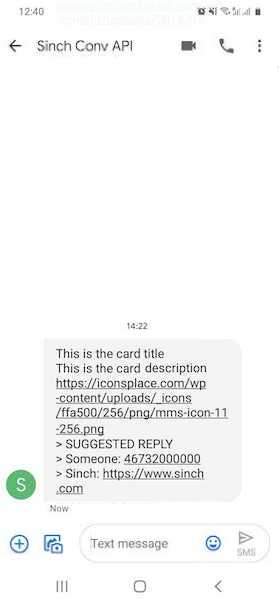
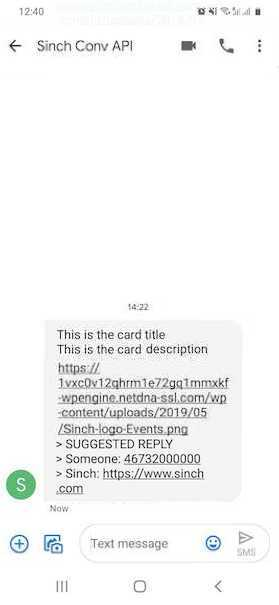
fix sms media

Changed region(s): [[0.2007, 0.5058, 0.8315, 0.7438]]

diff --git a/docs/conversation/conversation-channel-support/conversation-sms.md b/docs/conversation/conversation-channel-support/conversation-sms.md
@@ -189,7 +189,7 @@ Conversation API POST `messages:send`
       "title": "This is the card title",
       "description": "This is the card description",
       "media_message": {
-        "url": "https://iconsplace.com/wp-content/uploads/_icons/ffa500/256/png/mms-icon-11-256.png"
+        "url": "https://1vxc0v12qhrm1e72gq1mmxkf-wpengine.netdna-ssl.com/wp-content/uploads/2019/05/Sinch-logo-Events.png"
       },
       "choices": [
         {
